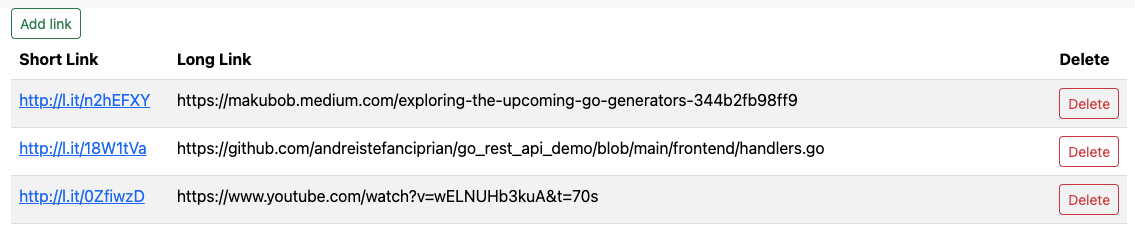
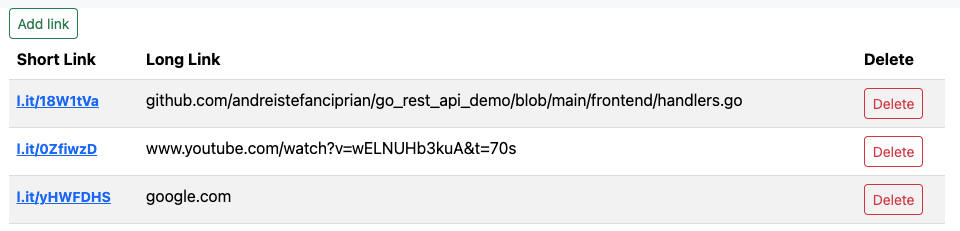
strip http sceheme from urls

diff --git a/frontend/cmd/handlers.go b/frontend/cmd/handlers.go
@@ -36,6 +36,26 @@ type URLInfo struct {
 	Expiration *timestamppb.Timestamp `json:"expiration,omitempty"`
 }
 
+// stripHTTPScheme removes http:// or https:// from any URL string for display purposes
+func stripHTTPScheme(url string) string {
+	if len(url) >= 8 && url[:8] == "https://" {
+		return url[8:]
+	} else if len(url) >= 7 && url[:7] == "http://" {
+		return url[7:]
+	}
+	return url
+}
+
+// StripHTTPSchemeFromShortUrl returns the ShortUrl without http:// or https:// for display purposes
+func (u *URLInfo) StripHTTPSchemeFromShortUrl() string {
+	return stripHTTPScheme(u.ShortUrl)
+}
+
+// StripHTTPSchemeFromLongUrl returns the LongUrl without http:// or https:// for display purposes
+func (u *URLInfo) StripHTTPSchemeFromLongUrl() string {
+	return stripHTTPScheme(u.LongUrl)
+}
+
 func (app *FrontendApp) render(w http.ResponseWriter, files []string, data interface{}) {
 	ts, err := template.ParseFiles(files...)
 	if err != nil {
@@ -97,6 +117,7 @@ func (app *FrontendApp) home(w http.ResponseWriter, r *http.Request) {
 			return
 		}
 
+		// Render the template with URLs data
 		app.render(w, files, URLs)
 		return
 	}
